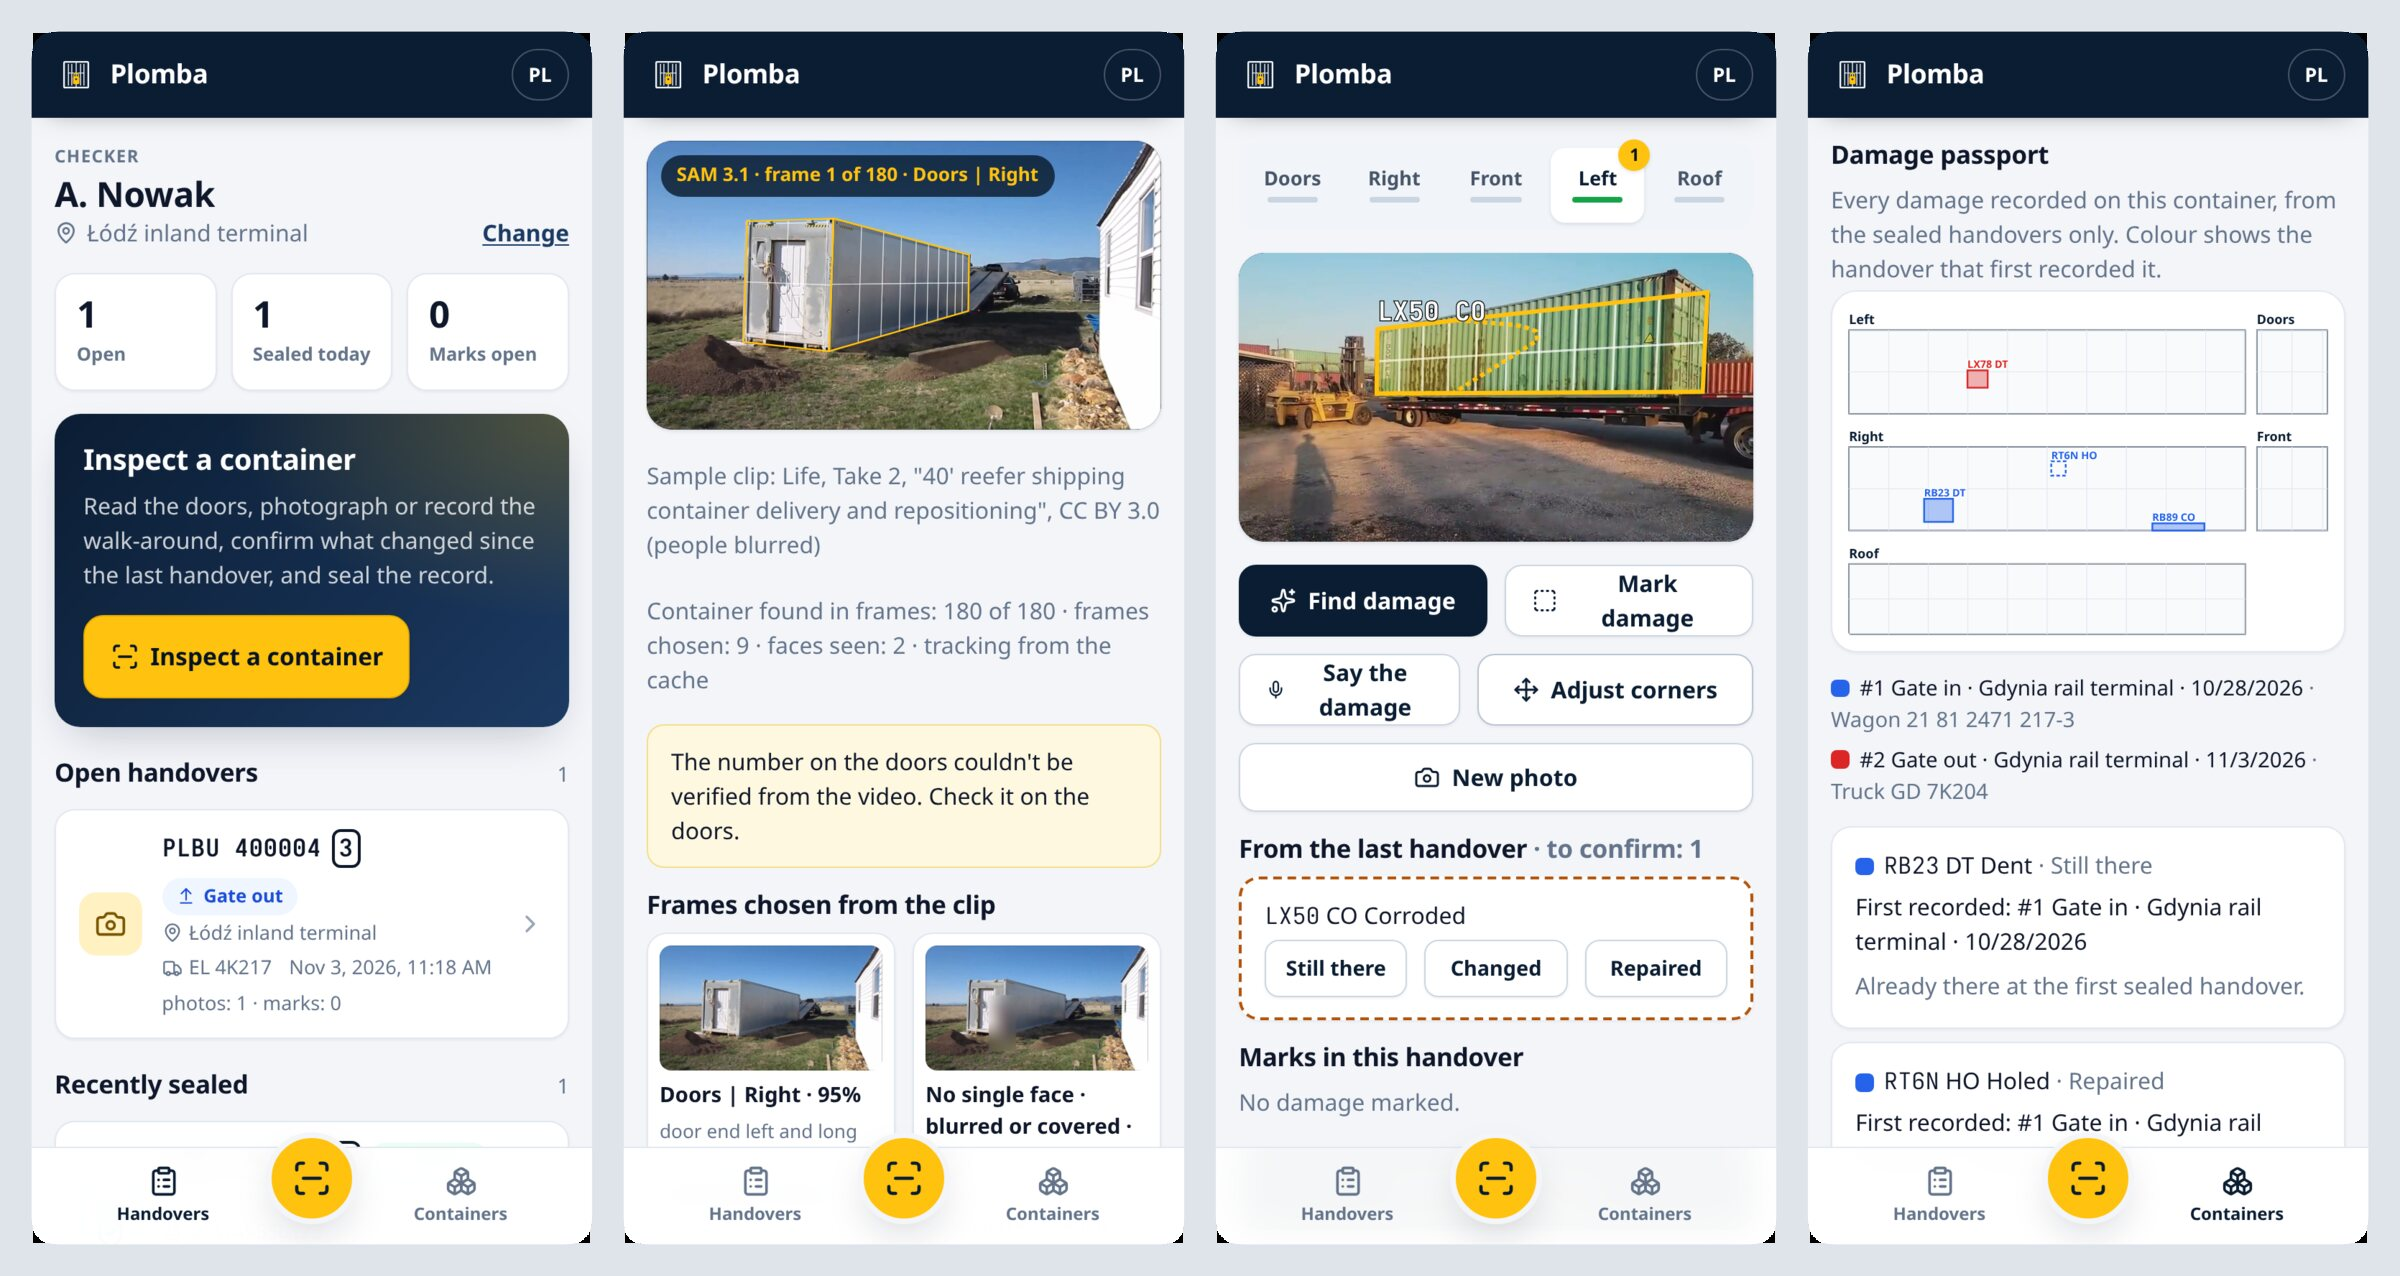
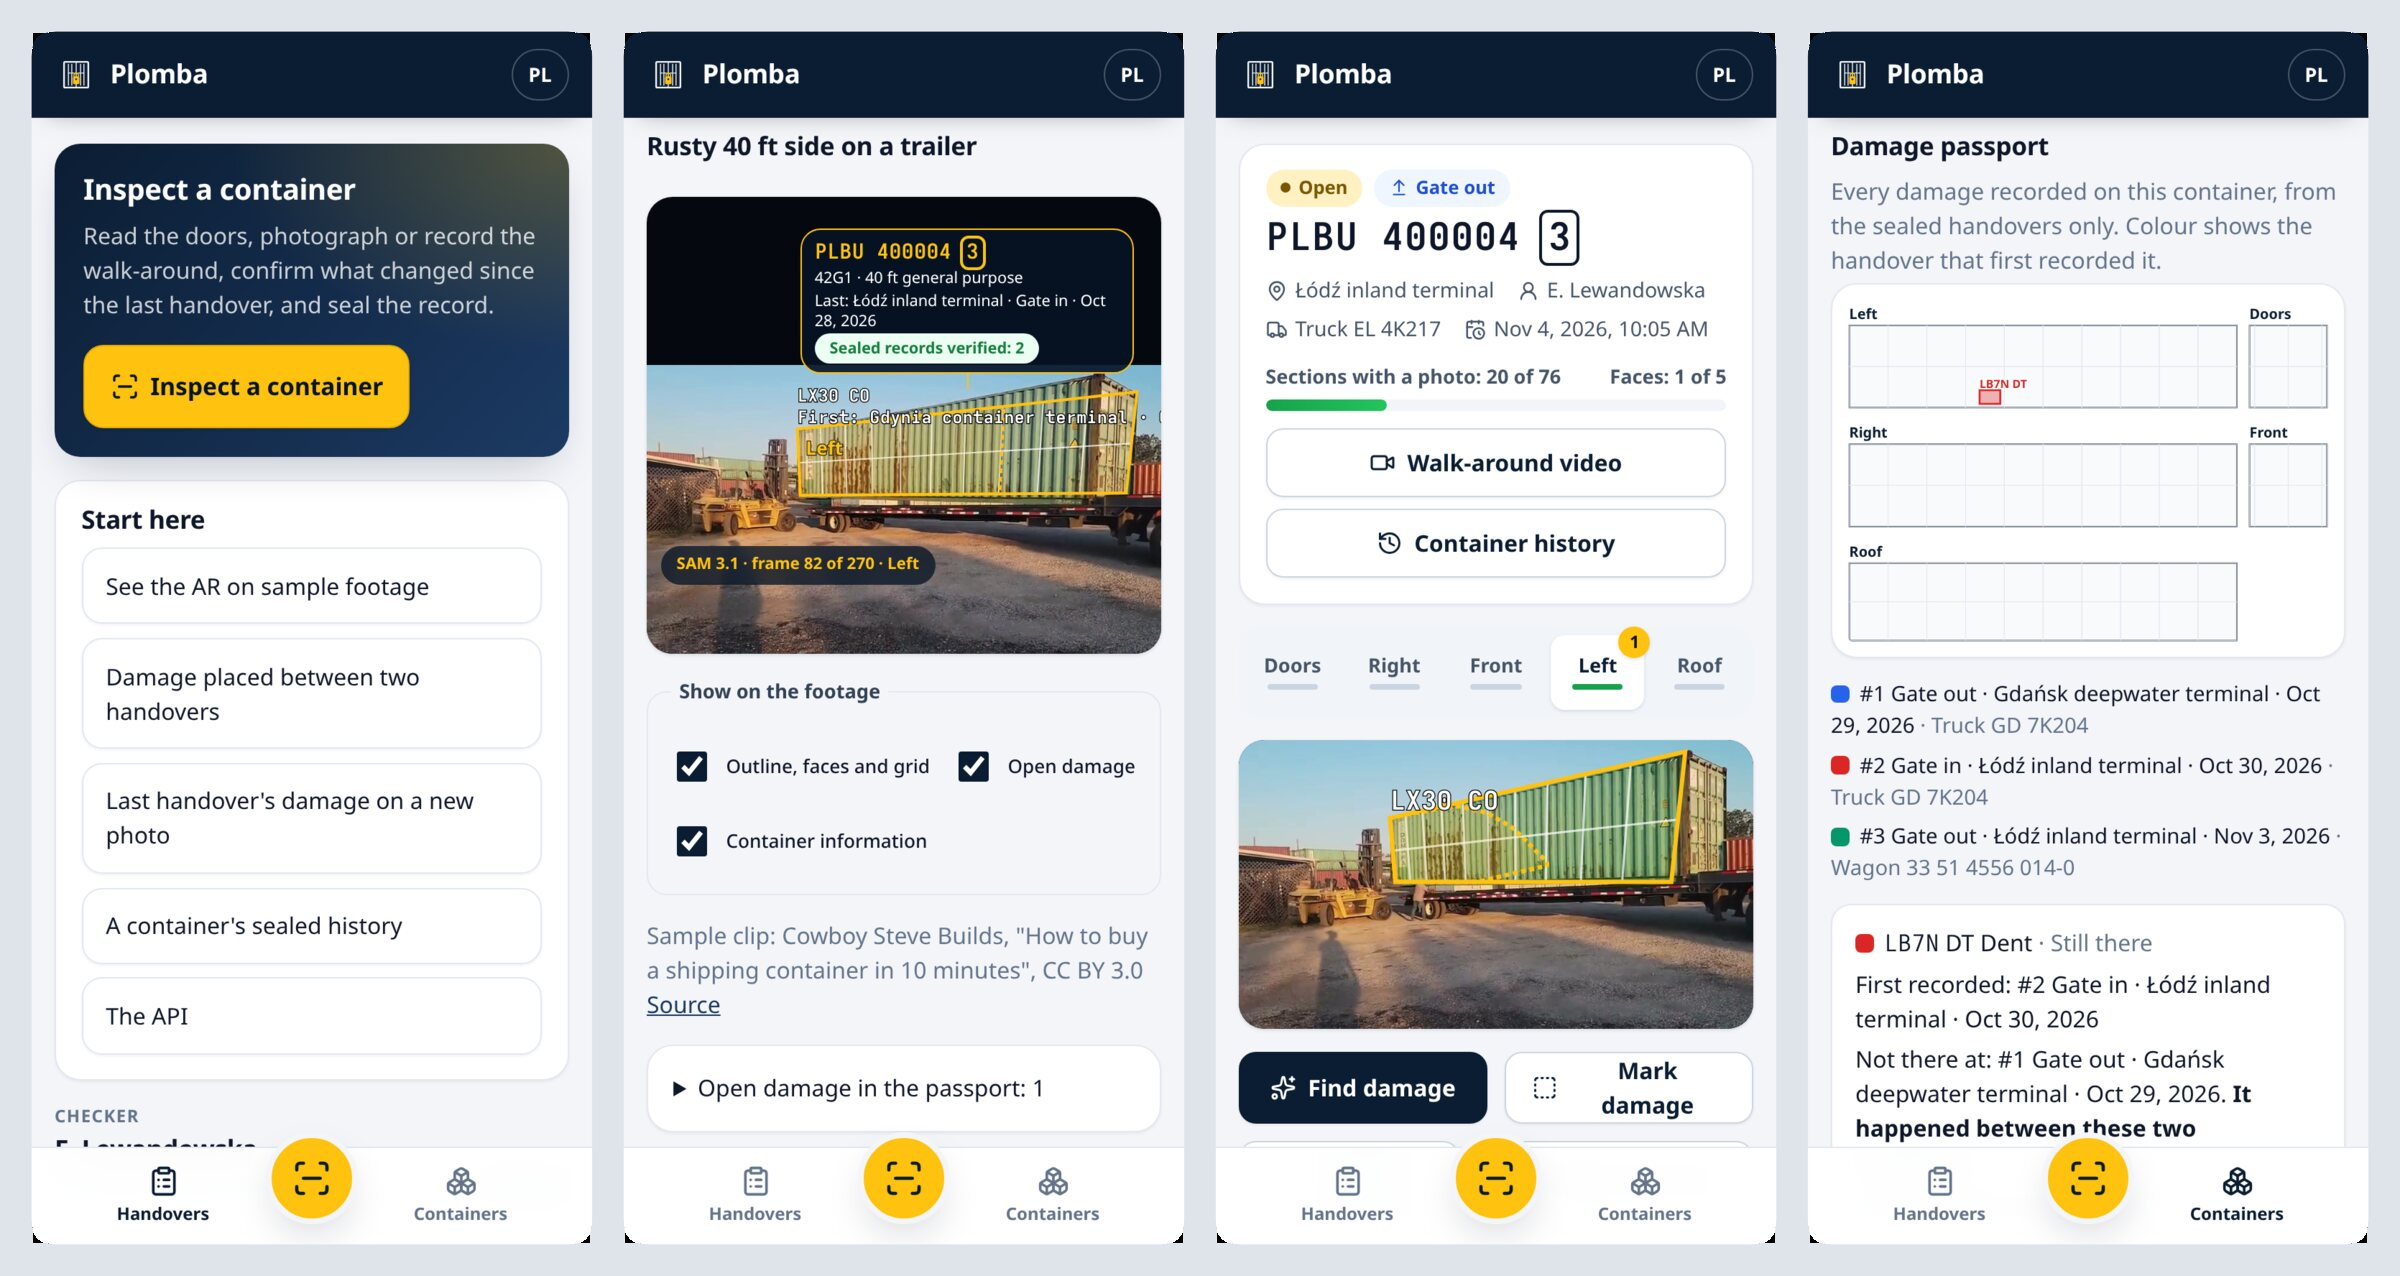
docs: screenshots from the live demo as it is now, on the README and the website

diff --git a/apps/site/src/images.ts b/apps/site/src/images.ts
@@ -18,19 +18,19 @@ export const IMAGES = {
     src: '/images/screen-walkaround.jpg',
     width: 559,
     height: 1211,
-    alt: 'Plomba on a phone, playing a walk-around video. SAM 3.1 tracks the container through 180 frames, and Muse Spark has named the doors and right side of this corner view, outlined on the video. Below are the frames chosen from the clip, each with the faces Muse Spark named.',
+    alt: 'Plomba on a phone, playing sample footage of a rusty 40 ft container. SAM 3.1 tracks it; a tag follows it with its number, type, last sealed handover and verified records, and the rust recorded at Gdynia, LX30 CO, is drawn on the side.',
   },
   handover: {
     src: '/images/screen-handover.jpg',
     width: 559,
     height: 1211,
-    alt: 'A gate-out handover of container PLBU 400004 3 at Łódź inland terminal. A photo of the left side on a truck shows the corrosion recorded at the last handover, LX50 CO, drawn on the same spot.',
+    alt: 'An open gate-out of container PLBU 400004 3 at Łódź inland terminal. On the left side, the rust recorded at the last handover, LX30 CO, is drawn on the same spot of the new photo.',
   },
   passport: {
     src: '/images/screen-passport.jpg',
     width: 559,
     height: 1211,
-    alt: "A container's damage passport: a map of its faces with each damage coloured by the handover that first recorded it, then the handovers and each damage's history.",
+    alt: "A container's damage passport: a map of its faces with each damage coloured by the handover that first recorded it, and a dent that wasn't there at Gdańsk and was at Łódź: it happened between these two handovers.",
   },
   social: {
     src: '/images/social.jpg',

diff --git a/apps/site/src/pages/home.ts b/apps/site/src/pages/home.ts
@@ -179,7 +179,7 @@ function moments(): Html {
         <p>The checker confirms each one still there, changed or repaired, so only damage that's really new counts as new.</p>`,
       visual: device(IMAGES.handover, {
         caption:
-          'A corrosion mark from the last handover, LX50 CO, drawn on a new photo of the left side.',
+          'A corrosion mark from the last handover, LX30 CO, drawn on a new photo of the left side.',
       }),
     }),
     feature({
@@ -191,7 +191,7 @@ function moments(): Html {
         <p>The checker confirms, and the frames become the photos.</p>`,
       visual: device(IMAGES.walkaround, {
         caption:
-          'SAM 3.1 tracks the container through the clip; Muse Spark named the doors and the right side of this corner view.',
+          'SAM 3.1 tracks the container through the clip; the tag and the rust recorded at Gdynia follow it.',
       }),
     }),
     feature({

diff --git a/README.md b/README.md
@@ -9,7 +9,7 @@
 > - **Meta models at run time:** SAM 3.1 tracks and outlines the container and blurs people; Muse Spark reads the number, names faces, finds and codes damage, and drafts claims as an agent; Muse Voice Transcribe takes spoken damage notes; Muse Spark Open runs the vision on open weights.
 > - **Website:** https://plomba.lisovate.com · **Integrations:** [docs/integrations.md](docs/integrations.md) and [examples/](examples)
 
-![Plomba on a phone: the checker's handovers; a walk-around video where SAM 3.1 tracks the container and Muse Spark names the doors and right side of a corner view; the damage recorded at the last handover drawn on the same spot of a new photo; the container's damage passport](docs/images/screens.jpg)
+![Plomba on a phone: Home with "Start here" for a first visit; sample footage where SAM 3.1 tracks a container and its tag shows the number, type, last sealed handover and the rust recorded at Gdynia; the open gate-out at Łódź with that rust drawn on the new photo; the damage passport placing a dent between two handovers](docs/images/screens.jpg)
 
 *Plomba* is Polish for the seal on a container's doors, the tag that proves the box wasn't opened. Plomba does the same for the container's condition.
 
